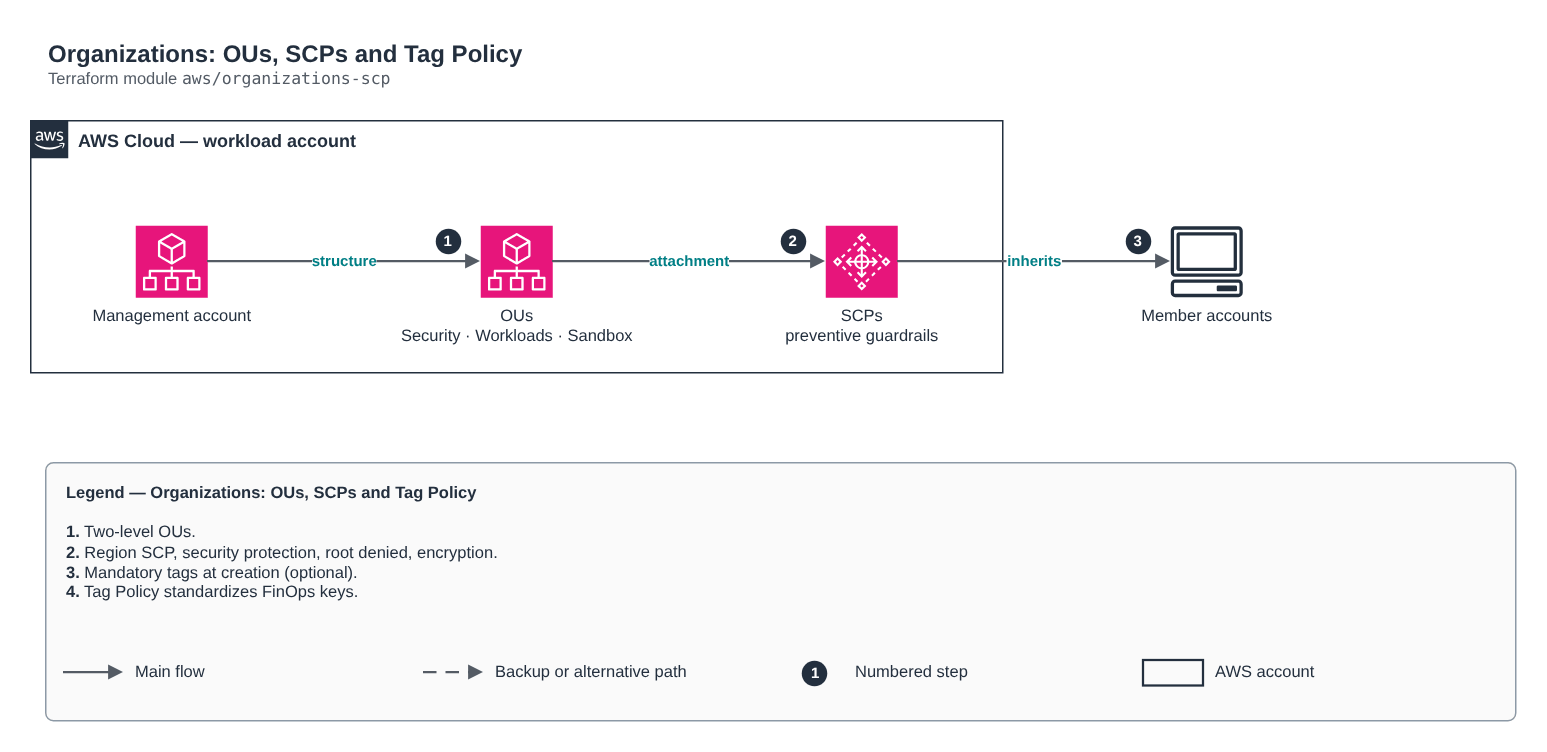
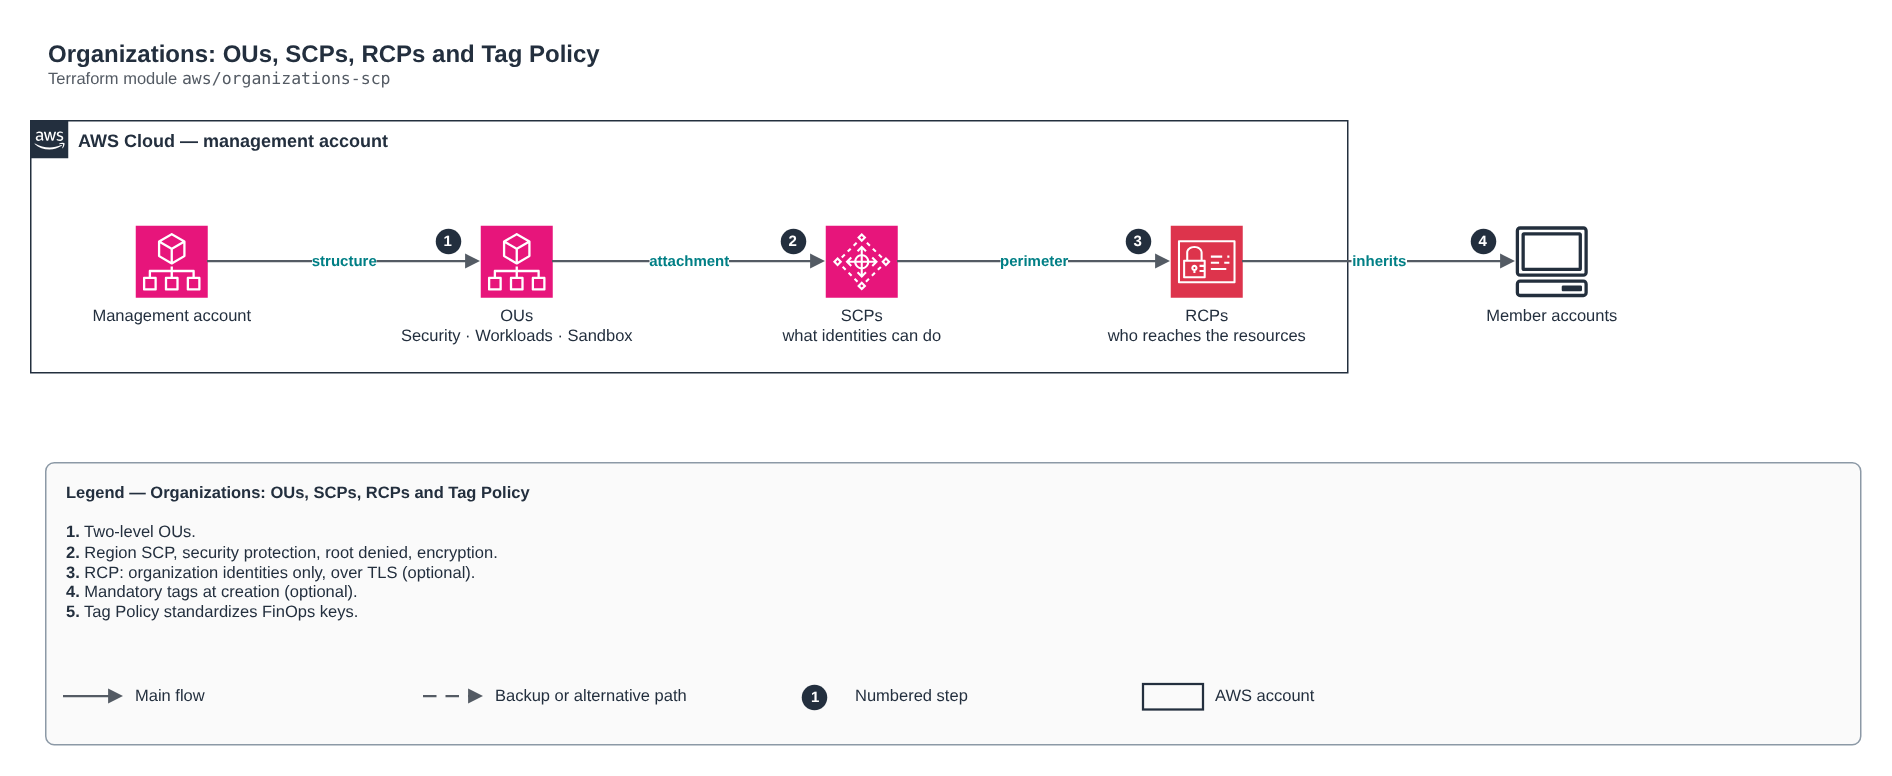
docs(aws/organizations-scp): desenho com RCP e conta de gerenciamento

diff --git a/aws/organizations-scp/README.md b/aws/organizations-scp/README.md
@@ -16,9 +16,9 @@ Fonte editável: [`diagram.drawio`](diagram.drawio) (abra no draw.io / diagrams.
 
 1. OUs em dois níveis.
 2. SCP de região, proteção de segurança, root negado, criptografia.
-3. Tags obrigatórias na criação (opcional).
-4. Tag Policy padroniza chaves de FinOps.
-5. RCPs de perímetro de dados (opcional, `enable_rcp = true`).
+3. RCP: só identidades da organização e TLS (opcional, `enable_rcp = true`).
+4. Tags obrigatórias na criação (opcional).
+5. Tag Policy padroniza chaves de FinOps.
 
 ## SCP e RCP: o perímetro de dados
 

diff --git a/aws/organizations-scp/README.en.md b/aws/organizations-scp/README.en.md
@@ -16,9 +16,9 @@ Editable source: [`diagram.drawio`](diagram.drawio) (open it in draw.io / diagra
 
 1. Two-level OUs.
 2. Region SCP, security protection, root denied, encryption.
-3. Mandatory tags at creation (optional).
-4. Tag Policy standardizes FinOps keys.
-5. Data-perimeter RCPs (optional, `enable_rcp = true`).
+3. RCP: organization identities only, over TLS (optional, `enable_rcp = true`).
+4. Mandatory tags at creation (optional).
+5. Tag Policy standardizes FinOps keys.
 
 ## SCP and RCP: the data perimeter
 
